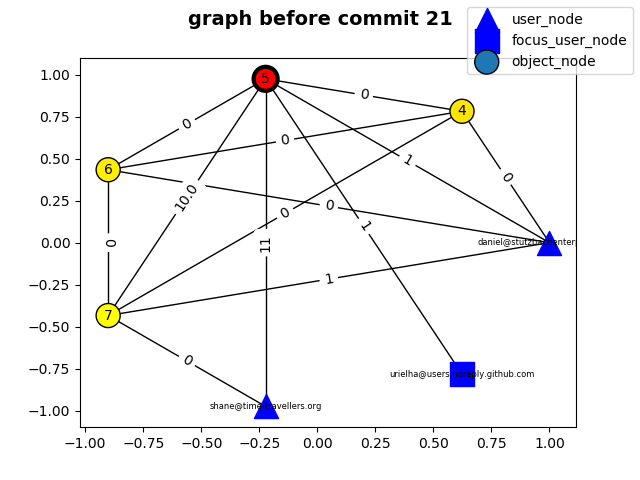
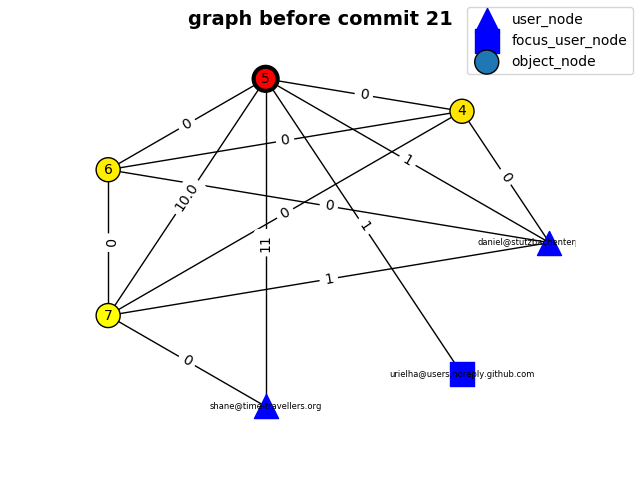
last changes to plotting

diff --git a/src/MIP.py b/src/MIP.py
@@ -215,8 +215,8 @@ class Mip:
 
         layout = nx.circular_layout(self.mip)  # pick graph layout
 
-        plt.figure(clear=True)
-
+        plt.figure(clear=True, frameon=False)
+        plt.axis('off')
         nx.draw_networkx_nodes(self.mip, pos=layout, nodelist=nodes,
             node_color=userNcolor, node_shape=userNshape, label='user_node')
         nx.draw_networkx_nodes(self.mip, pos=layout, nodelist=[user_node],
@@ -234,6 +234,7 @@ class Mip:
         plt.suptitle(f"graph before commit {self.iteration}", fontsize=14, fontweight='bold')
 
         plt.savefig(file_path)
+        plt.close()
 
     def __str__(self):
         return f"MIP_{self.alpha}_{self.beta}_{self.gamma}_{self.userDecay}_{self.objectDecay}"
